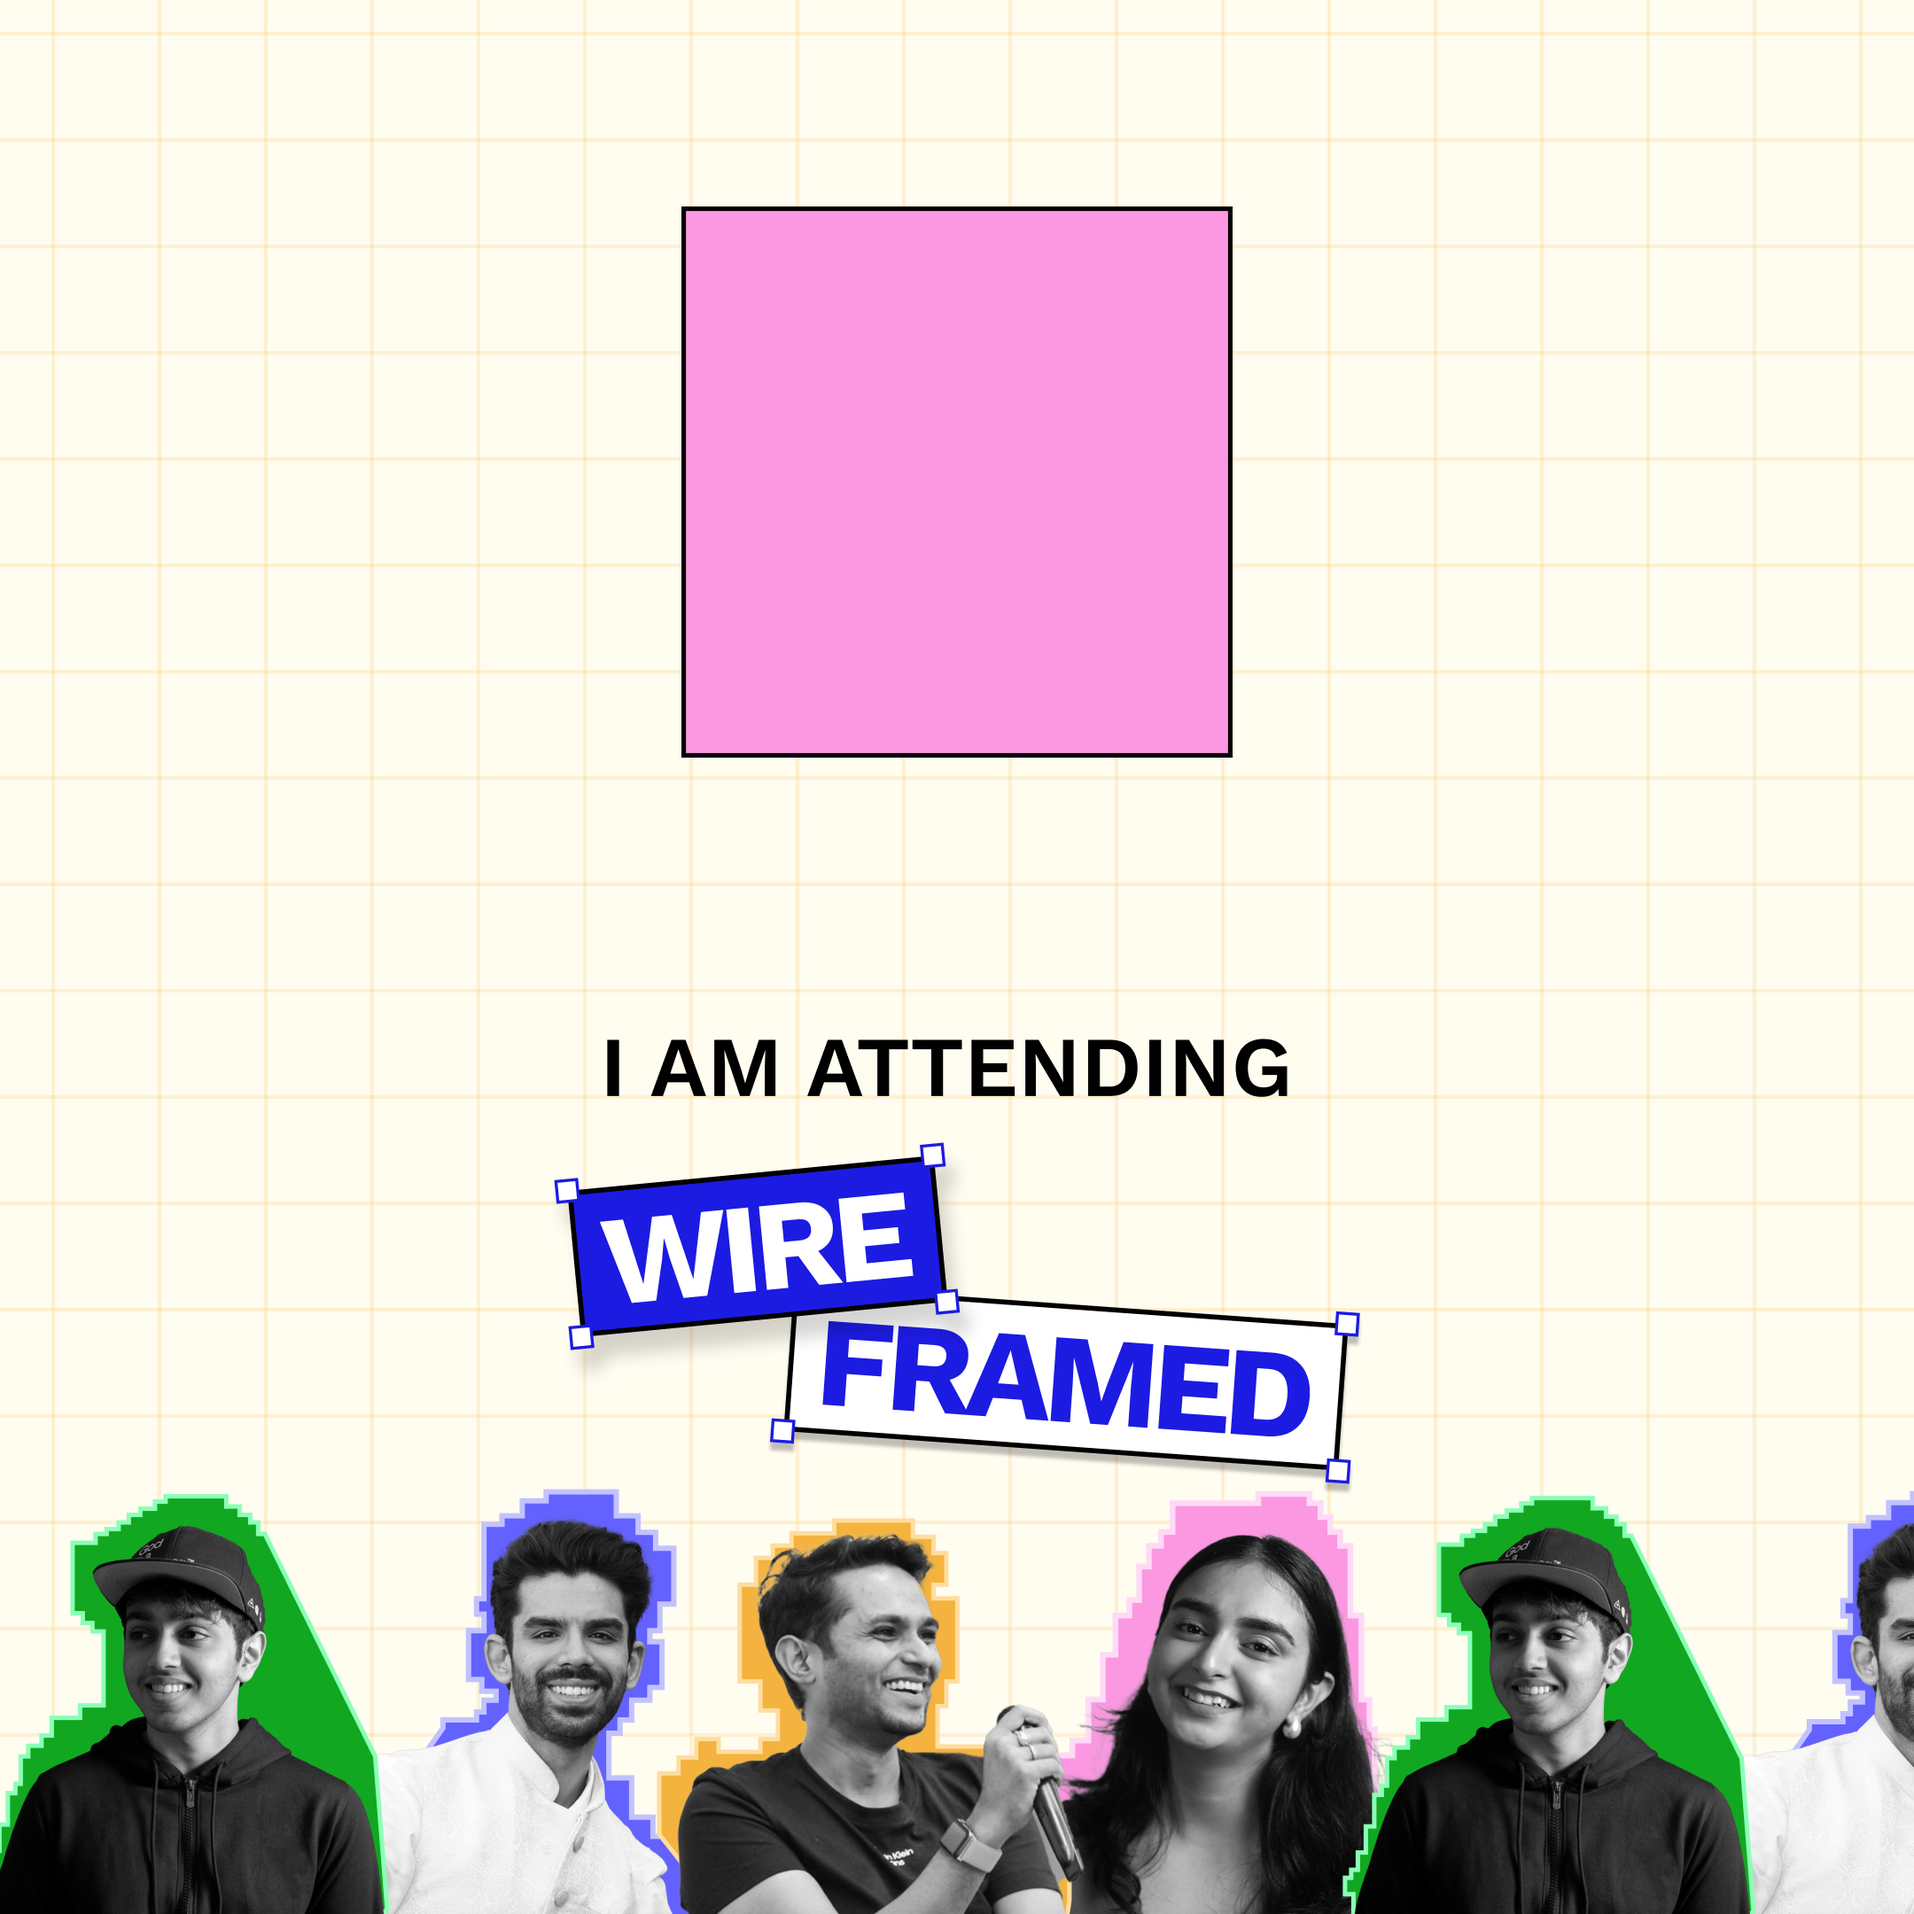
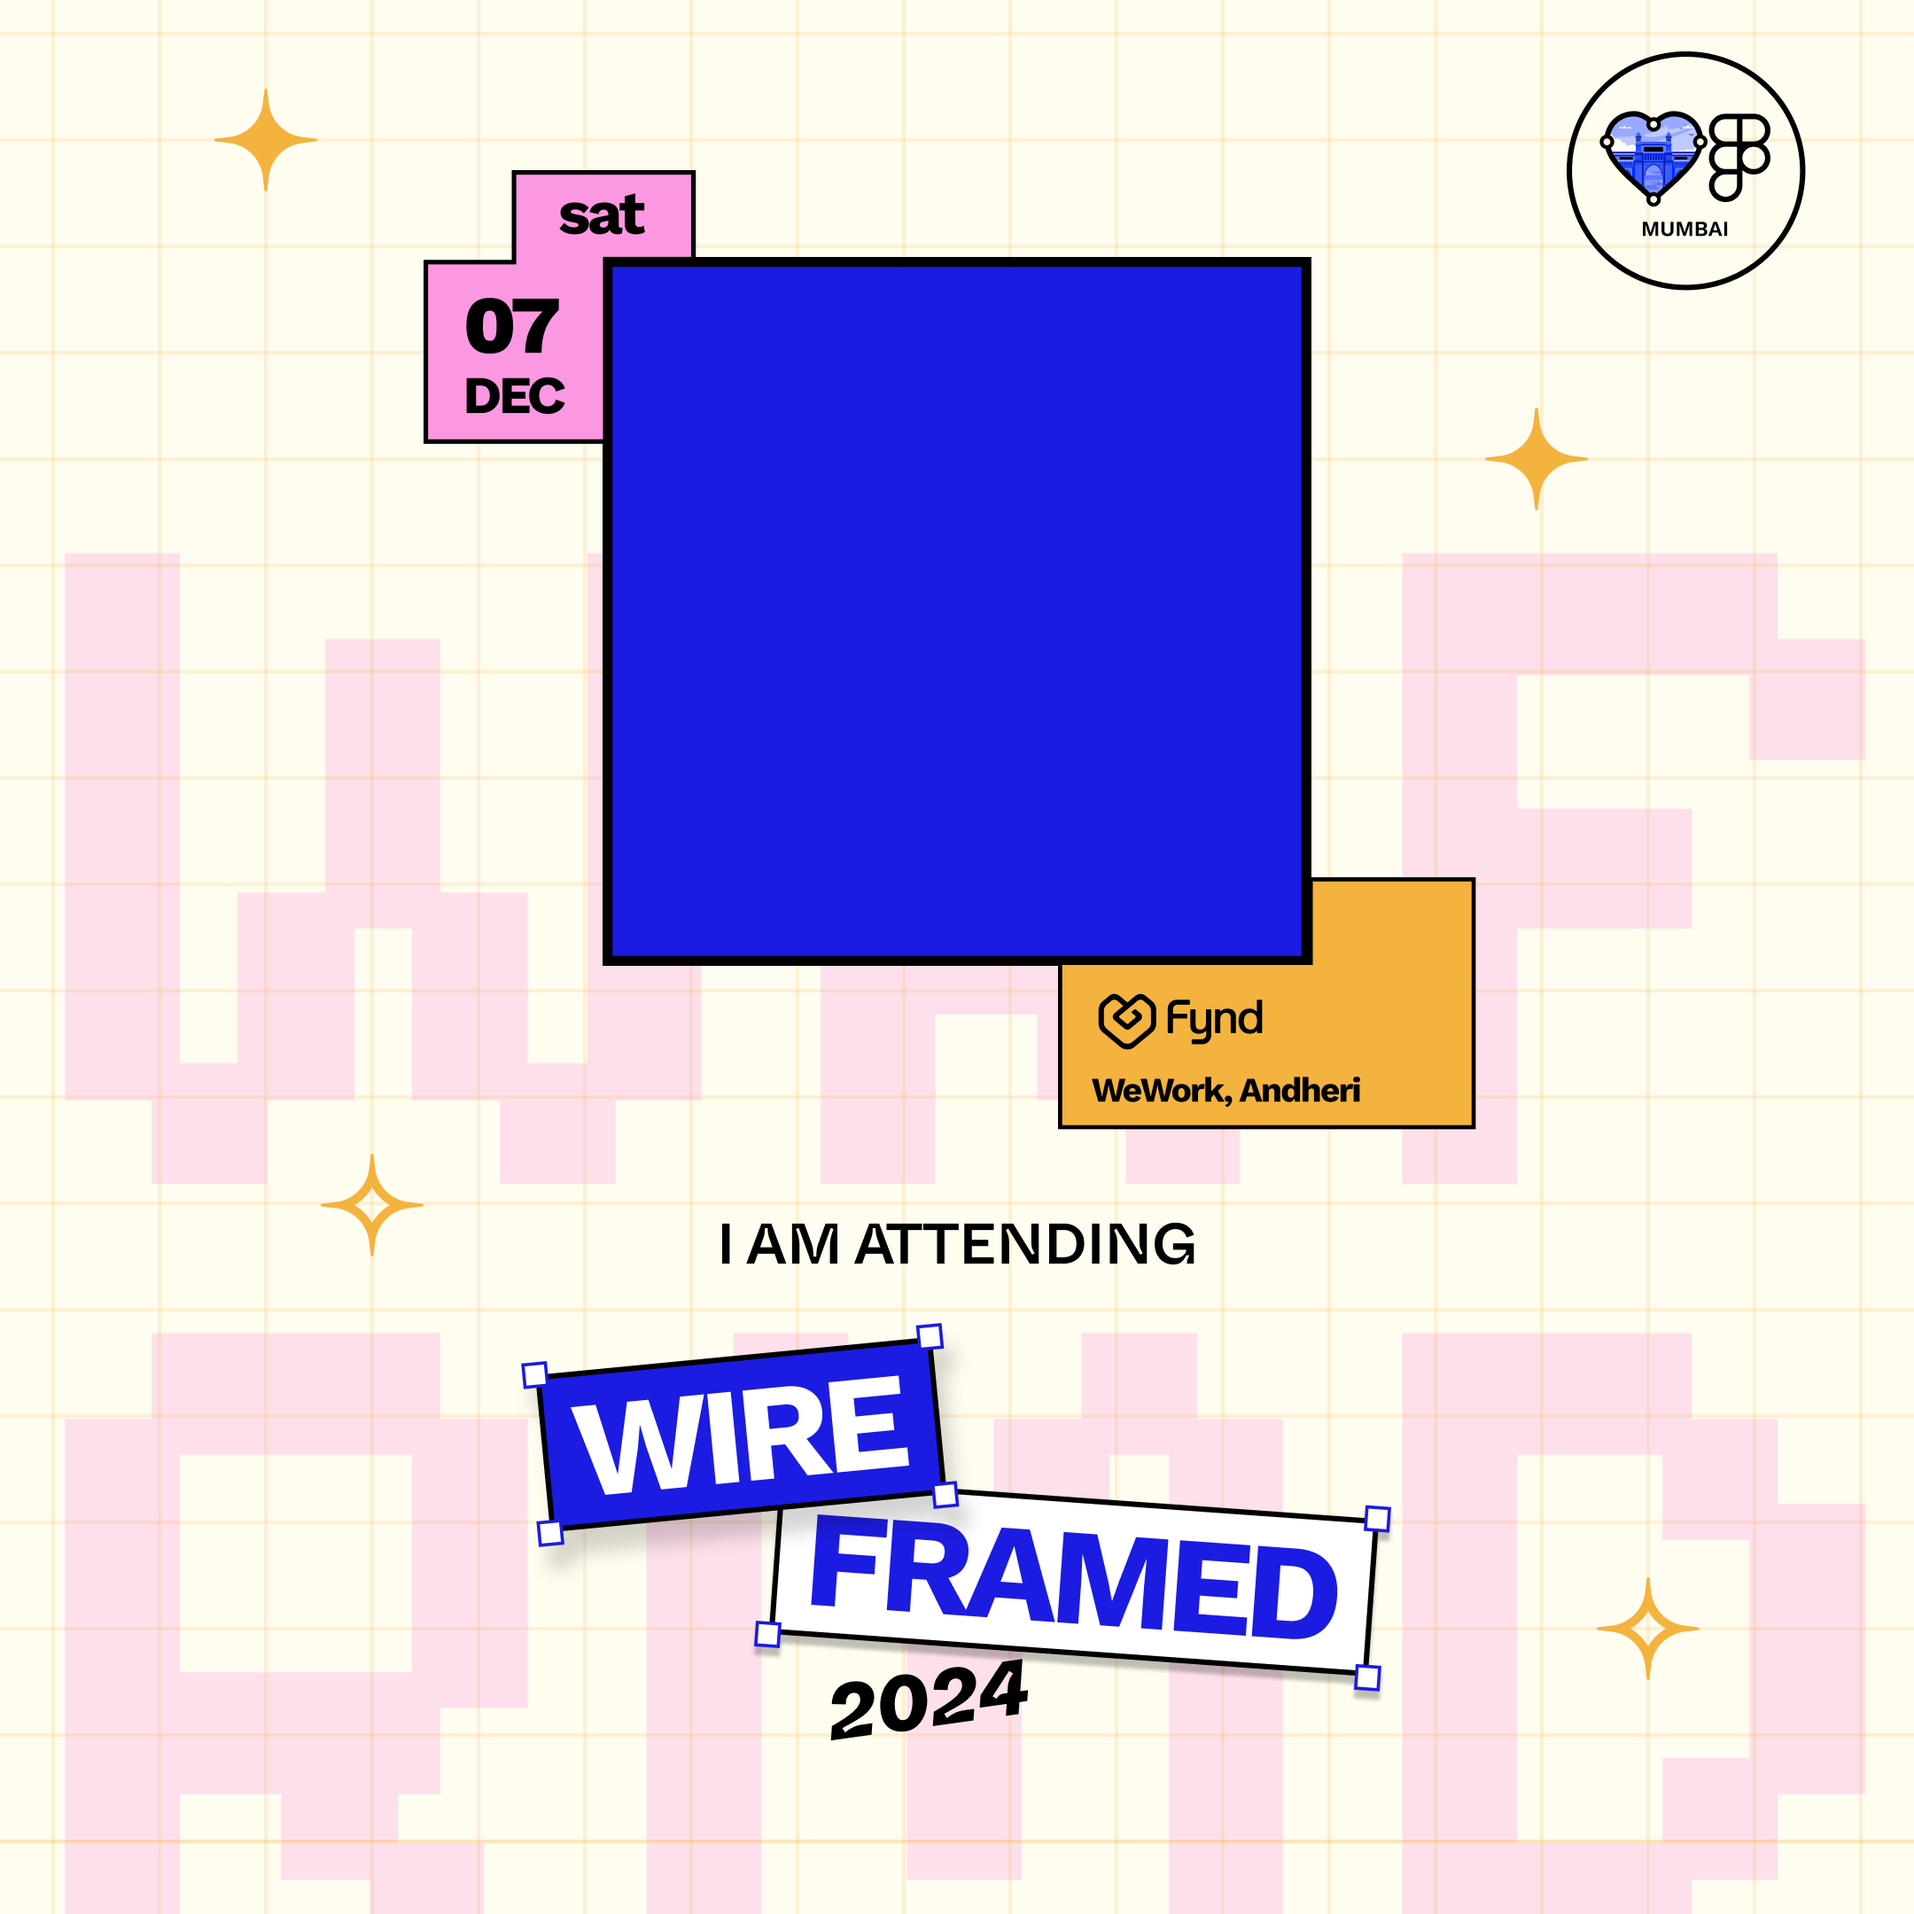
without name

diff --git a/withname.js b/withname.js
@@ -1,12 +1,24 @@
-// Updated script for image-only graphic generation
+// Get the file input element and the span to show the file name
+const fileInput = document.getElementById("imageInput");
+const fileNameDisplay = document.getElementById("file-name");
 
+// Listen for changes in the file input
+fileInput.addEventListener("change", function () {
+  const fileName = fileInput.files[0] ? fileInput.files[0].name : ""; // Get file name
+  if (fileName) {
+    fileNameDisplay.textContent = `${fileName}`; // Display file name
+  } else {
+    fileNameDisplay.textContent = ""; // Clear file name if no file selected
+  }
+});
+
+const nameInput = document.getElementById("nameInput");
 const imageInput = document.getElementById("imageInput");
 const generateButton = document.getElementById("generateButton");
 const downloadButton = document.getElementById("downloadButton");
 const canvas = document.getElementById("canvas");
 const preview = document.getElementById("preview");
 const ctx = canvas.getContext("2d", { alpha: true });
-const fileNameDisplay = document.getElementById("file-name");
 
 // Create separate high-resolution canvases for both templates
 const outputCanvasVertical = document.createElement("canvas");
@@ -37,16 +49,53 @@ backgroundImageVertical.src = "template.png";
 backgroundImageVertical.crossOrigin = "Anonymous";
 
 let backgroundImageSquare = new Image();
-backgroundImageSquare.src = "template-square.png";
+backgroundImageSquare.src = "template-square.png"; // Add a new square template image
 backgroundImageSquare.crossOrigin = "Anonymous";
 
 generateButton.addEventListener("click", generateGraphic);
 downloadButton.addEventListener("click", downloadImages);
 
+Promise.all([
+  new Promise((resolve) => (backgroundImageVertical.onload = resolve)),
+  new Promise((resolve) => (backgroundImageSquare.onload = resolve)),
+]).then(() => {
+  generateButton.disabled = false;
+} );
+
+// Name validation function
+function validateName(name) {
+  // Remove leading/trailing whitespace
+  name = name.trim();
+
+  // Check length
+  if (name.length < 2 || name.length > 50) {
+    return false;
+  }
+
+  // Validate characters (allow letters, spaces, hyphens)
+  const nameRegex = /^[A-Za-z\s\-']+$/;
+  return nameRegex.test(name);
+}
+
+// Modify existing event listeners
+
+// Add input validation to name input
+nameInput.addEventListener('input', function() {
+  const name = this.value;
+
+  // Optional: Real-time validation indication
+  if (name && !validateName(name)) {
+    this.setCustomValidity("Name should be 2-50 characters, using only letters, spaces, and hyphens");
+    this.reportValidity();
+  } else {
+    this.setCustomValidity("");
+  }
+});
+
 // Modify image input to only accept specific file types
-imageInput.addEventListener("change", function () {
+imageInput.addEventListener('change', function() {
   const file = imageInput.files[0];
-  const allowedTypes = ["image/jpeg", "image/jpg", "image/png"];
+  const allowedTypes = ['image/jpeg', 'image/jpg', 'image/png'];
   const maxFileSize = 5 * 1024 * 1024; // 5MB file size limit
 
   const fileName = file ? file.name : ""; // Get file name
@@ -60,33 +109,34 @@ imageInput.addEventListener("change", function () {
   if (file) {
     if (!allowedTypes.includes(file.type)) {
       alert("Please upload only JPG, JPEG, or PNG images.");
-      this.value = ""; // Clear the file input
-      fileNameDisplay.textContent = "";
+      this.value = ''; // Clear the file input
+      fileNameDisplay.textContent = '';
       return;
     }
 
     // Validate file size
     if (file.size > maxFileSize) {
       alert("File size should not exceed 5MB.");
-      this.value = ""; // Clear the file input
-      fileNameDisplay.textContent = "";
+      this.value = ''; // Clear the file input
+      fileNameDisplay.textContent = '';
       return;
     }
   }
 });
 
-Promise.all([
-  new Promise((resolve) => (backgroundImageVertical.onload = resolve)),
-  new Promise((resolve) => (backgroundImageSquare.onload = resolve)),
-]).then(() => {
-  generateButton.disabled = false;
-});
-
 function generateGraphic() {
+  const name = nameInput.value.trim();
   const file = imageInput.files[0];
+  const nameColor = "#000000";
 
-  if (!file) {
-    alert("Please upload a profile picture");
+  // Additional name validation before generating
+  if (!validateName(name)) {
+    alert("Please enter a valid name (2-50 characters, letters only)");
+    return;
+  }
+
+  if (!name || !file) {
+    alert("Please enter your name and upload a profile picture");
     return;
   }
 
@@ -105,9 +155,11 @@ function generateGraphic() {
         canvas.width,
         canvas.height,
         profileImage,
+        name,
+        nameColor,
+        true,
         backgroundImageVertical,
-        "vertical",
-        true
+        "vertical"
       );
 
       // Generate high-resolution vertical version
@@ -116,9 +168,11 @@ function generateGraphic() {
         outputCanvasVertical.width,
         outputCanvasVertical.height,
         profileImage,
+        name,
+        nameColor,
+        false,
         backgroundImageVertical,
-        "vertical",
-        false
+        "vertical"
       );
 
       // Generate high-resolution square version
@@ -127,9 +181,11 @@ function generateGraphic() {
         outputCanvasSquare.width,
         outputCanvasSquare.height,
         profileImage,
+        name,
+        nameColor,
+        false,
         backgroundImageSquare,
-        "square",
-        false
+        "square"
       );
 
       // Update previews
@@ -148,9 +204,11 @@ function generateGraphic() {
         1080,
         1080,
         profileImage,
+        name,
+        nameColor,
+        true,
         backgroundImageSquare,
-        "square",
-        true
+        "square"
       );
 
       const previewSquareDataUrl = previewSquareCanvas.toDataURL("image/png");
@@ -176,9 +234,11 @@ function generateVersion(
   width,
   height,
   profileImage,
+  name,
+  nameColor,
+  isPreview,
   backgroundImage,
-  templateType,
-  isPreview
+  templateType
 ) {
   context.clearRect(0, 0, width, height);
 
@@ -189,35 +249,23 @@ function generateVersion(
   const centerX = width / 2;
   const centerY =
     templateType === "vertical"
-      ? height * 0.327 // Vertical template
-      : height * 0.32; // Square template
+      ? height * 0.29 // Vertical template
+      : height * 0.25; // Square template
 
   // Adjust image size based on template type
   const size =
     templateType === "vertical"
       ? isPreview
-        ? 405
-        : 810 // Vertical template size
+        ? 360
+        : 720 // Vertical template size
       : isPreview
-      ? 324
-      : 648; // Larger image for square template
+      ? 240
+      : 480; // Larger image for square template
 
   // Calculate cropping dimensions
   let sourceSize = Math.min(profileImage.width, profileImage.height);
   let sourceX = (profileImage.width - sourceSize) / 2;
   let sourceY = (profileImage.height - sourceSize) / 2;
-
-  // Calculate border width proportional to image size
-  const borderWidth = isPreview ? 5 : 10;
-
-  // Draw black border
-  context.fillStyle = "#000000";
-  context.fillRect(
-    centerX - size / 2 - borderWidth,
-    centerY - size / 2 - borderWidth,
-    size + borderWidth * 2,
-    size + borderWidth * 2
-  );
 
   // Draw the cropped square image
   context.drawImage(
@@ -231,16 +279,44 @@ function generateVersion(
     size,
     size
   );
+
+  // Adjust font size based on template type
+  const fontSize =
+    templateType === "vertical"
+      ? isPreview
+        ? 80
+        : 160 // Vertical template font size
+      : isPreview
+      ? 60
+      : 120; // Smaller font for square template
+
+  // Draw name with scaled font settings
+  context.font = `400 ${fontSize}px "Poppins"`;
+  context.textAlign = "center";
+  context.fillStyle = nameColor;
+
+  const textY =
+    templateType === "vertical"
+      ? centerY + size / 2 + (isPreview ? 190 : 380) // Vertical template
+      : centerY + size / 2 + (isPreview ? 130 : 260); // Adjusted for square template
+
+  context.fillText(name, centerX, textY);
 }
 
 function downloadImages() {
   const verticalLink = document.createElement("a");
-  verticalLink.download = `Wireframed2024_story.png`;
+  verticalLink.download = `Wireframed2024_${nameInput.value.replace(
+    /\s+/g,
+    "_"
+  )}_vertical.png`;
   verticalLink.href = outputCanvasVertical.toDataURL("image/png", 1.0);
   verticalLink.click();
 
   const squareLink = document.createElement("a");
-  squareLink.download = `Wireframed2024_post.png`;
+  squareLink.download = `Wireframed2024_${nameInput.value.replace(
+    /\s+/g,
+    "_"
+  )}_square.png`;
   squareLink.href = outputCanvasSquare.toDataURL("image/png", 1.0);
   squareLink.click();
 }

diff --git a/withname.html b/withname.html
@@ -18,22 +18,23 @@
 					Get ready to showcase your excitement for Wireframed 2024! </br> </br> Create your personalized
 					<span style="color: #0700d2; font-weight: 500;">I Am Attending</span>
 					graphic to share across social media and let
-					everyone know you're part of Mumbai's premier design celebration. See you at Wireframed 2024!
+					everyone know you’re part of Mumbai’s premier design celebration. See you at Wireframed 2024!
 				</p>
 			</div>
-
+			<input type="text" id="nameInput" placeholder="Enter Your Name" required>
 			<div class="file-input-wrapper">
 				<input type="file" id="imageInput" accept="image/*" required>
-				<label for="imageInput" class="custom-file-input">Add My Flair</label>
+				<label for="imageInput" class="custom-file-input">Choose Image</label>
 				<span id="file-name" class="file-name"></span>
 			</div>
+
 
 			<button id="generateButton">Get My Graphics</button>
 			<button id="downloadButton" style="display:none;">Download Graphics</button>
 			<div class="preview-container">
 				<div class="preview-wrapper">
 					<p id="square-template-text" style="display:none; color: #0034ef; font-size: 1rem;">Ideal for
-						LinkedIn, X (fka Twitter), Instagram posts</p>
+						Linkedin, X (fka Twitter), Instagram posts</p>
 					<img id="preview-square" alt="Generated Square Graphic">
 				</div>
 				<div class="preview-wrapper">
@@ -45,11 +46,13 @@
 		</div>
 	</div>
 
+
+
 	<canvas id="canvas"></canvas>
 	<footer>
 		<p>© FOF MUMBAI. All right reserved.</p>
 	</footer>
-	<script src="script.js"></script>
+	<script src="withname.js"></script>
 	<script src="https://cdn.jsdelivr.net/npm/canvas-confetti@1.5.1/dist/confetti.browser.min.js"></script>
 	<script>
 		document.getElementById( 'generateButton' ).addEventListener( 'click', function () {
